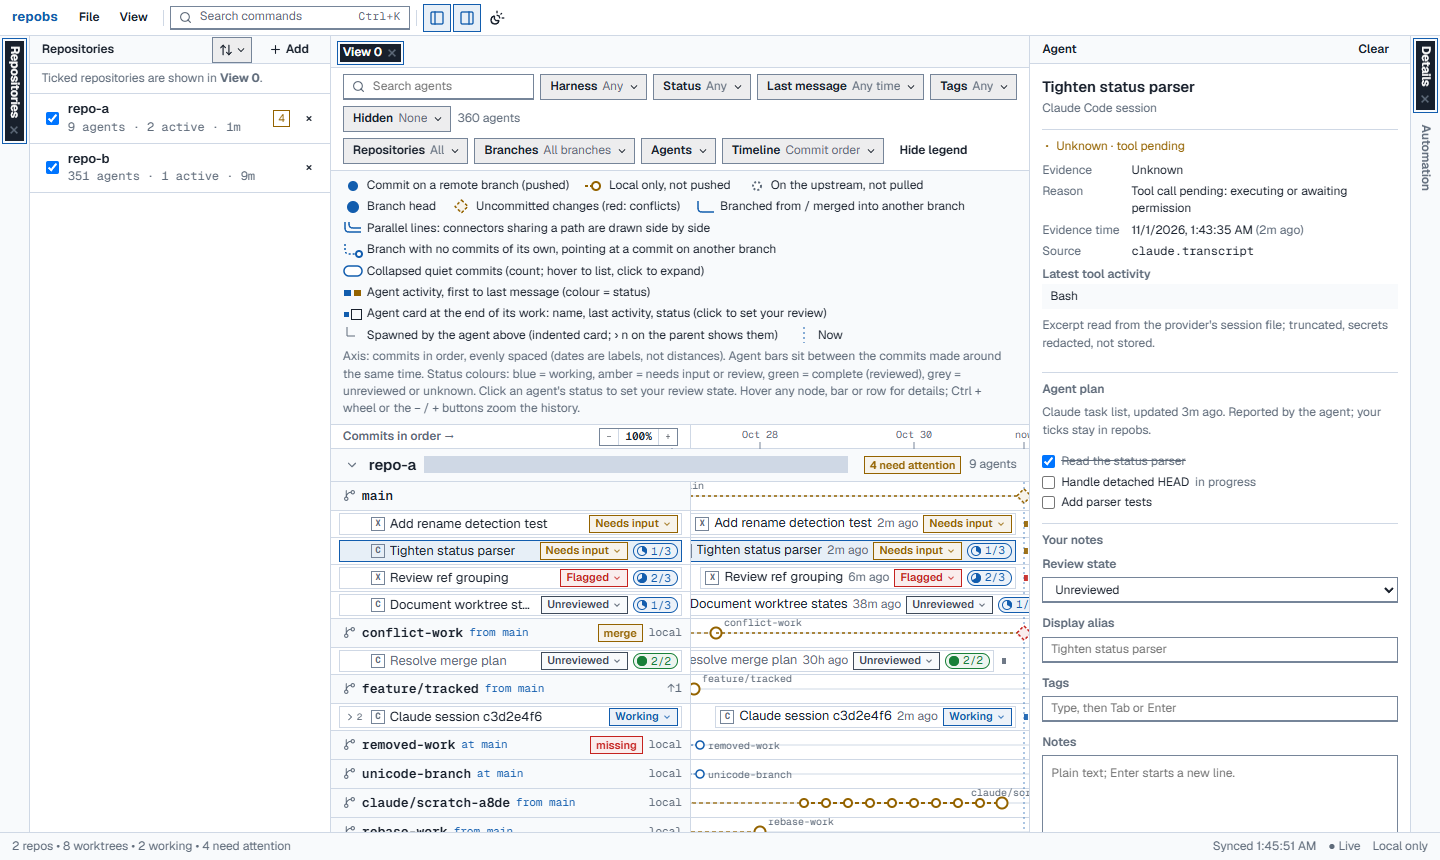
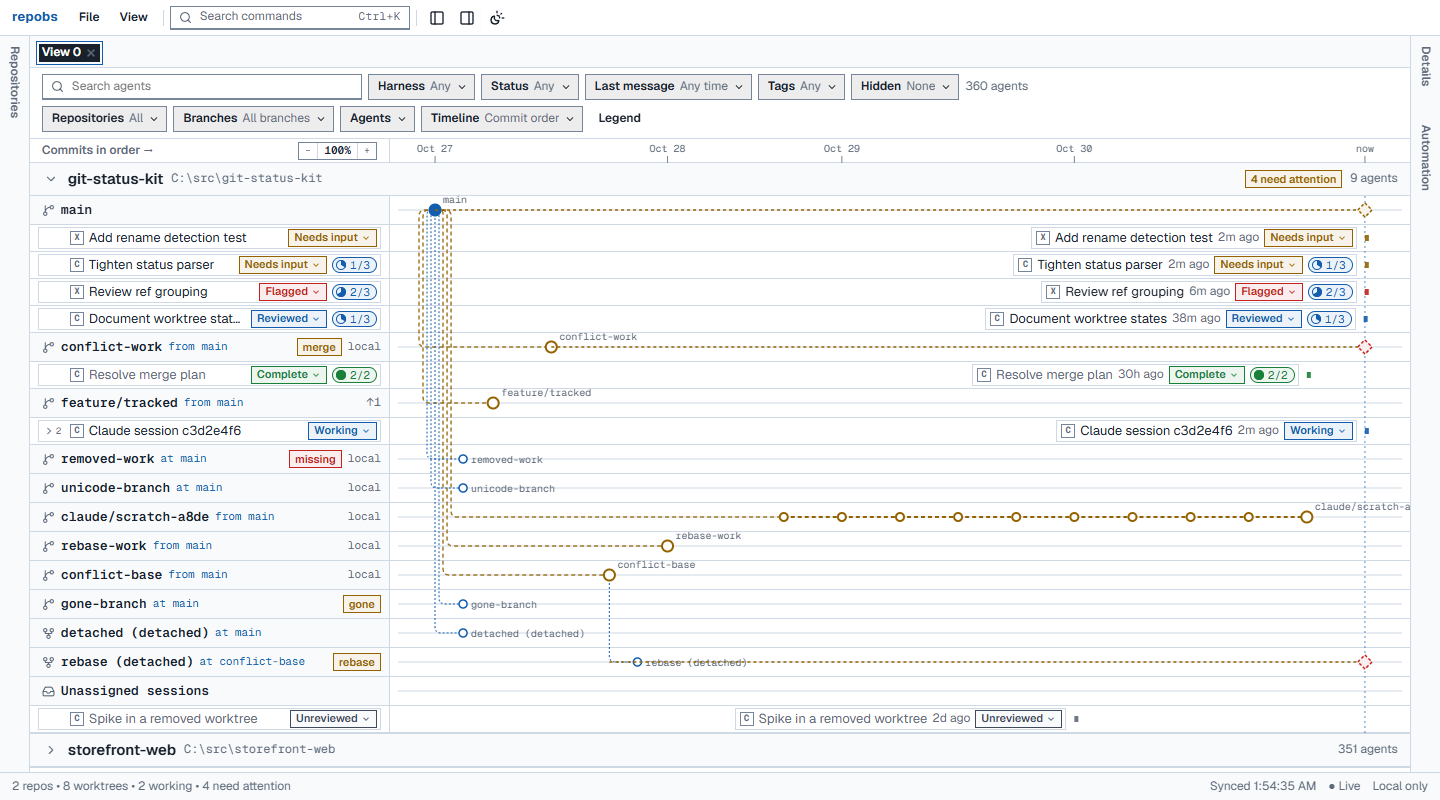
docs: dashboard-only screenshot with realistic demo repository names
The demo's repositories are git-status-kit and storefront-web instead
of repo-a and repo-b (buildGitFixture takes the names; unit and
integration tests keep the defaults). The overview screenshot closes
both side panels, leaves the legend closed, shows five review states,
and replaces temporary paths with C:\src\<name> instead of masking
them. Caption, user guide, changelog and handoff checkpoint 22 updated.

Changed region(s): [[0.0, 0.0, 1.0, 1.0], [0.9375, 0.0312, 1.0, 0.2188], [0.7188, 0.0312, 0.75, 0.0625]]

diff --git a/tests/e2e/app.spec.ts b/tests/e2e/app.spec.ts
@@ -58,8 +58,8 @@ test.describe.serial('repobs dashboard (synthetic data)', () => {
     await dialog.getByLabel('Select all').check()
     await dialog.getByRole('button', { name: 'Add 2 repositories' }).click()
     await expect(dialog).toBeHidden()
-    await expect(board(page, 'repo-a')).toBeVisible()
-    await expect(board(page, 'repo-b')).toBeVisible()
+    await expect(board(page, 'git-status-kit')).toBeVisible()
+    await expect(board(page, 'storefront-web')).toBeVisible()
     await expect(page.getByText('2 repos')).toBeVisible()
   })
 
@@ -91,7 +91,7 @@ test.describe.serial('repobs dashboard (synthetic data)', () => {
 
   test('branches are drawn as a commit graph with local-only commits and pending changes', async ({ page }) => {
     await pair(page)
-    const a = board(page, 'repo-a')
+    const a = board(page, 'git-status-kit')
     await expect(row(page, /^main branch, \d+ uncommitted changes/)).toBeVisible()
     await expect(row(page, /^feature\/tracked branch/)).toBeVisible()
     const svg = a.locator('svg[data-lanes]')
@@ -118,7 +118,7 @@ test.describe.serial('repobs dashboard (synthetic data)', () => {
     // Compressed calendar: no two commits on the axis closer than the minimum spacing.
     await setOption(page, 'Timeline', 'Calendar, compressed')
     await expect(page.getByText('Calendar, compressed →')).toBeVisible()
-    const xs = await board(page, 'repo-a')
+    const xs = await board(page, 'git-status-kit')
       .locator('svg[data-lanes]')
       .locator('circle[class*="commit"]')
       .evaluateAll((els) => els.map((e) => Number(e.getAttribute('cx'))))
@@ -130,7 +130,7 @@ test.describe.serial('repobs dashboard (synthetic data)', () => {
 
   test('hovering a commit shows its message; the legend explains the marks', async ({ page }) => {
     await pair(page)
-    const svg = board(page, 'repo-a').locator('svg[data-lanes]')
+    const svg = board(page, 'git-status-kit').locator('svg[data-lanes]')
     // The newest end is shown first; the first local commit can sit under the sticky label column.
     await page.getByLabel(/^Branches and agents. Use the arrow keys/).evaluate((el) => (el.scrollLeft = 0))
     const node = svg.locator('circle[class*="local"]').first()
@@ -150,7 +150,7 @@ test.describe.serial('repobs dashboard (synthetic data)', () => {
 
   test('branch connectors are orthogonal with rounded corners', async ({ page }) => {
     await pair(page)
-    const svg = board(page, 'repo-a').locator('svg[data-lanes]')
+    const svg = board(page, 'git-status-kit').locator('svg[data-lanes]')
     const paths = await svg.locator('path[class*="edgeCross"]').evaluateAll((els) => els.map((e) => e.getAttribute('d') ?? ''))
     expect(paths.length).toBeGreaterThan(0)
     // Only axis-aligned straight segments joined by small quadratic corners; no free-form curves.
@@ -165,7 +165,7 @@ test.describe.serial('repobs dashboard (synthetic data)', () => {
 
   test('connectors leaving one commit run on separate parallel tracks', async ({ page }) => {
     await pair(page)
-    const svg = board(page, 'repo-a').locator('svg[data-lanes]')
+    const svg = board(page, 'git-status-kit').locator('svg[data-lanes]')
     // Every fork from main's commit gets its own vertical track until the tracks run out.
     const xs = await svg.locator('path[class*="edgeCross"]').evaluateAll((els) =>
       els.map((e) => (e.getAttribute('d') ?? '').match(/Q([\d.-]+),/)?.[1]).filter((x): x is string => !!x),
@@ -175,7 +175,7 @@ test.describe.serial('repobs dashboard (synthetic data)', () => {
 
   test('quiet commits collapse into a group you can hover, inspect and expand', async ({ page }) => {
     await pair(page)
-    const svg = board(page, 'repo-a').locator('svg[data-lanes]')
+    const svg = board(page, 'git-status-kit').locator('svg[data-lanes]')
     const commitsBefore = await svg.locator('circle[class*="commit"]').count()
     await setOption(page, 'Branches', 'Collapse quiet commits')
     const group = svg.locator('g[class*="group"]').first()
@@ -422,7 +422,7 @@ test.describe.serial('repobs dashboard (synthetic data)', () => {
 
   test('hovering an agent card on the timeline shows the same agent details as the list', async ({ page }) => {
     await pair(page)
-    const cards = board(page, 'repo-a').getByRole('group', { name: 'Agents on the timeline of repo-a' })
+    const cards = board(page, 'git-status-kit').getByRole('group', { name: 'Agents on the timeline of git-status-kit' })
     await cards.locator('[data-bar-label]', { hasText: 'Tighten status parser' }).getByText('Tighten status parser').hover()
     const hover = page.getByRole('dialog', { name: 'Agent details' })
     await expect(hover).toContainText('Last activity')
@@ -474,7 +474,7 @@ test.describe.serial('repobs dashboard (synthetic data)', () => {
     await menu.getByRole('menuitemcheckbox', { name: /Details panel/ }).click()
     await expect(details(page)).toBeHidden()
     await page.reload()
-    await expect(board(page, 'repo-a')).toBeVisible()
+    await expect(board(page, 'git-status-kit')).toBeVisible()
     await expect(details(page)).toBeHidden()
 
     // Ctrl+B toggles the repositories panel; the quick button shows its state.
@@ -506,7 +506,7 @@ test.describe.serial('repobs dashboard (synthetic data)', () => {
 
   test('agent labels on the timeline and names in the list toggle independently', async ({ page }) => {
     await pair(page)
-    const cards = board(page, 'repo-a').getByRole('group', { name: 'Agents on the timeline of repo-a' })
+    const cards = board(page, 'git-status-kit').getByRole('group', { name: 'Agents on the timeline of git-status-kit' })
     const label = cards.locator('[data-bar-label^="claude:c3d2e4f6"]').first()
     await expect(label).toContainText('Claude session c3d2e4f6')
     await expect(label).toContainText('Working')
@@ -533,7 +533,7 @@ test.describe.serial('repobs dashboard (synthetic data)', () => {
     // Names only in the list.
     await setOption(page, 'Agents', 'Agent names in list')
     await setOption(page, 'Agents', 'Agent labels on timeline', false)
-    await expect(board(page, 'repo-a').locator('[data-bar-label]')).toHaveCount(0)
+    await expect(board(page, 'git-status-kit').locator('[data-bar-label]')).toHaveCount(0)
     await expect(parent).toContainText('Claude session c3d2e4f6')
     await setOption(page, 'Agents', 'Agent labels on timeline')
   })
@@ -565,7 +565,7 @@ test.describe.serial('repobs dashboard (synthetic data)', () => {
 
   test('the history zooms horizontally', async ({ page }) => {
     await pair(page)
-    const svg = board(page, 'repo-a').locator('svg[data-lanes]')
+    const svg = board(page, 'git-status-kit').locator('svg[data-lanes]')
     const width = async () => Number(await svg.getAttribute('width'))
     const before = await width()
     await page.getByRole('button', { name: 'Zoom in' }).click()
@@ -577,11 +577,11 @@ test.describe.serial('repobs dashboard (synthetic data)', () => {
 
   test('long agent lists collapse behind "show more"', async ({ page }) => {
     await pair(page)
-    const more = board(page, 'repo-b').getByRole('listitem', { name: /^Show \d+ more agents/ })
+    const more = board(page, 'storefront-web').getByRole('listitem', { name: /^Show \d+ more agents/ })
     await expect(more).toBeVisible()
     await more.click()
     await expect(more).toBeHidden()
-    expect(await board(page, 'repo-b').getByRole('listitem', { name: /Bulk session/ }).count()).toBeGreaterThan(300)
+    expect(await board(page, 'storefront-web').getByRole('listitem', { name: /Bulk session/ }).count()).toBeGreaterThan(300)
   })
 
   test('external Git and agent changes appear without a browser refresh', async ({ page }) => {
@@ -641,12 +641,12 @@ test.describe.serial('repobs dashboard (synthetic data)', () => {
     await runMenu(page, 'View', 'Open new view')
     await expect(view(page, 'View 1')).toBeVisible()
     // The repository panel lists every repository; its ticks are the current view's selection.
-    await page.getByRole('checkbox', { name: 'Show repo-b in View 1' }).uncheck()
-    await expect(view(page, 'View 1').getByRole('region', { name: 'repo-b repository' })).toBeHidden()
+    await page.getByRole('checkbox', { name: 'Show storefront-web in View 1' }).uncheck()
+    await expect(view(page, 'View 1').getByRole('region', { name: 'storefront-web repository' })).toBeHidden()
     await expect(view(page, 'View 1').getByRole('button', { name: 'Repositories: 1 of 2' })).toBeVisible()
     await viewTab(page, 'View 0').click()
-    await expect(view(page, 'View 0').getByRole('region', { name: 'repo-b repository' })).toBeVisible()
-    await expect(page.getByRole('checkbox', { name: 'Show repo-b in View 0' })).toBeChecked()
+    await expect(view(page, 'View 0').getByRole('region', { name: 'storefront-web repository' })).toBeVisible()
+    await expect(page.getByRole('checkbox', { name: 'Show storefront-web in View 0' })).toBeChecked()
 
     // Renaming View 0 frees its number for the next new view.
     await page.keyboard.press('Control+K')
@@ -662,8 +662,8 @@ test.describe.serial('repobs dashboard (synthetic data)', () => {
     // Names, settings and the arrangement survive a reload.
     await page.reload()
     await viewTab(page, 'View 1').click()
-    await expect(view(page, 'View 1').getByRole('region', { name: 'repo-a repository' })).toBeVisible()
-    await expect(view(page, 'View 1').getByRole('region', { name: 'repo-b repository' })).toBeHidden()
+    await expect(view(page, 'View 1').getByRole('region', { name: 'git-status-kit repository' })).toBeVisible()
+    await expect(view(page, 'View 1').getByRole('region', { name: 'storefront-web repository' })).toBeHidden()
 
     // Views close from their tabs, except the last one.
     for (const name of ['View 1', 'View 0']) await viewTab(page, name).locator('.flexlayout__tab_button_trailing').click()
@@ -736,11 +736,11 @@ test.describe.serial('repobs dashboard (synthetic data)', () => {
 
   test('removing a repository only removes it from repobs', async ({ page }) => {
     await pair(page)
-    await page.getByRole('button', { name: 'Remove repo-b from repobs' }).click()
+    await page.getByRole('button', { name: 'Remove storefront-web from repobs' }).click()
     const dialog = page.getByRole('dialog', { name: 'Remove repository from repobs' })
     await expect(dialog).toContainText('no files, branches or worktrees are deleted')
     await dialog.getByRole('button', { name: 'Remove from repobs' }).click()
-    await expect(board(page, 'repo-b')).toBeHidden()
+    await expect(board(page, 'storefront-web')).toBeHidden()
     expect(fs.existsSync(path.join(state().git.repoB, 'b.txt'))).toBe(true)
   })
 })

diff --git a/tests/e2e/docs-screenshot.spec.ts b/tests/e2e/docs-screenshot.spec.ts
@@ -10,7 +10,7 @@ test.skip(!process.env.REPOBS_DOCS_SCREENSHOT, 'documentation screenshot only on
 
 test('dashboard screenshot for the documentation', async ({ page }) => {
   const state = readE2EState(Number(process.env.REPOBS_E2E_PORT ?? 47399))
-  await page.setViewportSize({ width: 1440, height: 860 })
+  await page.setViewportSize({ width: 1440, height: 800 })
   await page.emulateMedia({ colorScheme: 'light' })
   await page.goto(`/#pair=${mintPairingToken(state.dataDir) as string}`)
   await page.getByRole('button', { name: 'Add repositories' }).first().click()
@@ -20,20 +20,39 @@ test('dashboard screenshot for the documentation', async ({ page }) => {
   await dialog.getByRole('button', { name: 'Add 2 repositories' }).click()
   await expect(dialog).toBeHidden()
   // Collapse the bulk-session repository so the screenshot shows the interesting one.
-  await page.getByRole('button', { name: 'Collapse repo-b' }).click()
-  const card = page.getByRole('listitem', { name: /^Review ref grouping/ })
-  await card.getByRole('button', { name: /change review state/ }).click()
-  await page.getByRole('menuitemradio', { name: 'Flagged' }).click()
-  await page.getByRole('button', { name: 'Legend' }).click()
-  await page.getByRole('listitem', { name: /^Tighten status parser/ }).getByText('Tighten status parser', { exact: true }).click()
-  await expect(page.getByRole('complementary', { name: 'Details panel' }).getByLabel('Review state')).toBeVisible()
+  await page.getByRole('button', { name: 'Collapse storefront-web' }).click()
+  // A few review states, so their colours show.
+  for (const [agent, state] of [
+    ['Review ref grouping', 'Flagged'],
+    ['Resolve merge plan', 'Complete'],
+    ['Document worktree states', 'Reviewed'],
+  ]) {
+    await page.getByRole('listitem', { name: new RegExp(`^${agent}`) }).getByRole('button', { name: /change review state/ }).click()
+    await page.getByRole('menuitemradio', { name: state, exact: true }).click()
+  }
+  // The dashboard alone: no side panels, no legend.
+  const toolbar = page.getByRole('toolbar', { name: 'Workbench commands' })
+  for (const panel of ['Repositories panel', 'Details panel']) {
+    const toggle = toolbar.getByRole('button', { name: panel })
+    if ((await toggle.getAttribute('aria-pressed')) === 'true') await toggle.click()
+    await expect(toggle).toHaveAttribute('aria-pressed', 'false')
+  }
+  await expect(page.getByRole('complementary', { name: 'Repositories panel' })).toBeHidden()
+  await expect(page.getByRole('complementary', { name: 'Details panel' })).toBeHidden()
+  await expect(page.getByRole('button', { name: 'Hide legend' })).toBeHidden()
+  await page.evaluate(() => (document.activeElement as HTMLElement | null)?.blur())
   await page.mouse.move(0, 0)
   await expect(page.getByRole('dialog', { name: 'Agent details' })).toBeHidden()
   await page.getByLabel(/^Branches and agents\. Use the arrow keys/).evaluate((el) => (el.scrollTop = 0))
-  // Temporary-folder paths contain the local user name: mask them in the published image.
-  await page.screenshot({
-    path: path.resolve('docs/assets/repobs-overview.png'),
-    maskColor: '#cfd8e5',
-    mask: [page.locator('header span.mono[title]'), page.getByText(/^(Worktree|Working directory)$/).locator('xpath=following-sibling::dd[1]')],
-  })
+  // Temporary-folder paths contain the local user name: show a neutral path in the published image instead.
+  const paths = page.locator('header span.mono[title]')
+  await expect(paths).toHaveCount(2)
+  await paths.evaluateAll((els) =>
+    els.forEach((el) => {
+      const name = el.closest('[aria-label$=" repository"]')?.getAttribute('aria-label')?.replace(/ repository$/, '') ?? 'project'
+      el.textContent = `C:\\src\\${name}`
+      el.setAttribute('title', el.textContent)
+    }),
+  )
+  await page.screenshot({ path: path.resolve('docs/assets/repobs-overview.png') })
 })

diff --git a/scripts/demo.ts b/scripts/demo.ts
@@ -27,17 +27,20 @@ export interface Demo {
   codexHome: string
 }
 
+/** Folder (and display) names of the demo repositories: a Git tooling project and an unrelated web app. */
+export const DEMO_REPOS = { a: 'git-status-kit', b: 'storefront-web' }
+
 export function buildDemo(root: string, now = Date.now()): Demo {
   const ago = (m: number) => now - m * 60_000
   fs.mkdirSync(root, { recursive: true })
-  const git = buildGitFixture(path.join(root, 'src'))
+  const git = buildGitFixture(path.join(root, 'src'), DEMO_REPOS)
   const claudeHome = path.join(root, 'claude-home')
   const codexHome = path.join(root, 'codex-home')
   const dataDir = path.join(root, 'repobs-data')
   const { repoA, repoB, worktrees } = git
 
   // A branch with a run of uneventful history, so "Collapse quiet commits" has something to fold.
-  const scratch = path.join(root, 'src', 'repo-a-worktrees', 'scratch-history')
+  const scratch = path.join(path.dirname(worktrees.feature), 'scratch-history')
   fixtureGit(repoA, ['worktree', 'add', scratch, 'claude/scratch-a8de'])
   for (let i = 1; i <= 10; i++) {
     fs.writeFileSync(path.join(scratch, 'notes.txt'), `scratch step ${i}\n`)

diff --git a/fixtures/git-fixtures.ts b/fixtures/git-fixtures.ts
@@ -70,14 +70,15 @@ export interface GitFixture {
  * checked out in a linked worktree), claude/scratch-a8de (local-only), gone-branch (upstream
  * removed), origin/remote-only (remote-only), a detached worktree, a worktree whose path has spaces
  * and Unicode, a merge conflict, a rebase stopped on a conflict, and a removed worktree directory.
+ * `names` sets the two repositories' folder names (shown as their display names).
  */
-export function buildGitFixture(root: string): GitFixture {
+export function buildGitFixture(root: string, names = { a: 'repo-a', b: 'repo-b' }): GitFixture {
   fs.mkdirSync(root, { recursive: true })
   const origin = path.join(root, 'origin.git')
-  const repoA = path.join(root, 'repo-a')
-  const repoB = path.join(root, 'repo-b')
+  const repoA = path.join(root, names.a)
+  const repoB = path.join(root, names.b)
   const other = path.join(root, 'other-clone')
-  const wtRoot = path.join(root, 'repo-a-worktrees')
+  const wtRoot = path.join(root, `${names.a}-worktrees`)
   const worktrees = {
     feature: path.join(wtRoot, 'feature'),
     detached: path.join(wtRoot, 'detached'),

diff --git a/docs/development/handoff-status.md b/docs/development/handoff-status.md
@@ -2,6 +2,14 @@
 
 Dated implementation checkpoints against the [product handoff](product-handoff.md). Conversation memory is not project state; this page is.
 
+## Checkpoint 22 — 2026-11-01: dashboard-only screenshot, realistic demo names, toolbar fix
+
+| Request | Implementation |
+| --- | --- |
+| The screenshot should show as much dashboard as possible: no legend, no side panels | `docs-screenshot.spec.ts` closes the Repositories and Details panels from the toolbar, leaves the legend closed, sets *Flagged*, *Complete* and *Reviewed* on three agents so the state colours show, uses a 1440 × 800 viewport, and replaces the temporary-folder paths with `C:\src\<name>` instead of masking them |
+| Realistic repository names instead of *repo-a* / *repo-b* | `buildGitFixture(root, names)` takes the folder names (default still `repo-a` / `repo-b` for unit and integration tests); the demo uses `DEMO_REPOS` = `git-status-kit` and `storefront-web`; the e2e tests use the new names |
+| Found while doing it: a toolbar panel button stayed pressed after closing its panel | `isPanelVisible` read `TabNode.isVisible()`, which flexlayout updates only on its next render. `panelShown(model, panel)` reads the model (selected tab of its border or tab set, and the maximized tab set); unit-tested in `dockLayout.test.ts`, and the screenshot test asserts both buttons end unpressed |
+
 ## Checkpoint 21 — 2026-11-01: release preparation, v0.3.0
 
 - Version 0.3.0 in all package manifests, the lockfile's workspace entries and `APP_VERSION` (reported by `/health`).

diff --git a/docs/user-guide.md b/docs/user-guide.md
@@ -43,7 +43,7 @@ A view is a dashboard tab with its own settings: filters, display options, axis 
 
 ```text
 COMMITS IN ORDER →       Oct 25        Oct 26        Oct 27   now
-repo-a
+git-status-kit
 main                     ●─────────────────────────────────◇    branch row: commits in order
  [› C Tighten status parser   Needs input ⌄]              ▮    one card per agent
  [› X Review ref grouping     Needs review ⌄]             ▮

diff --git a/README.md b/README.md
@@ -6,7 +6,7 @@ It only reads. It never changes your repositories or agent files, needs no API k
 
 ![repobs dashboard with synthetic demo data](docs/assets/repobs-overview.png)
 
-*Synthetic demo data: agents on their branches with their review states and checklist pills; the details panel shows an agent's own plan.*
+*Synthetic demo data: one repository's branches on the timeline, with each agent's status, review state and checklist pill.*
 
 ## Quick start (Windows)
 

diff --git a/CHANGELOG.md b/CHANGELOG.md
@@ -4,6 +4,14 @@ All notable changes are documented here. The format follows [Keep a Changelog](h
 
 ## [Unreleased]
 
+### Fixed
+
+- After closing a side panel from the toolbar, its button stayed pressed until something else redrew the page.
+
+### Changed
+
+- The demo repositories have realistic names (`git-status-kit`, `storefront-web`), and the overview screenshot shows the dashboard alone, without side panels or legend.
+
 ## [0.3.0] — 2026-11-01
 
 ### Added
